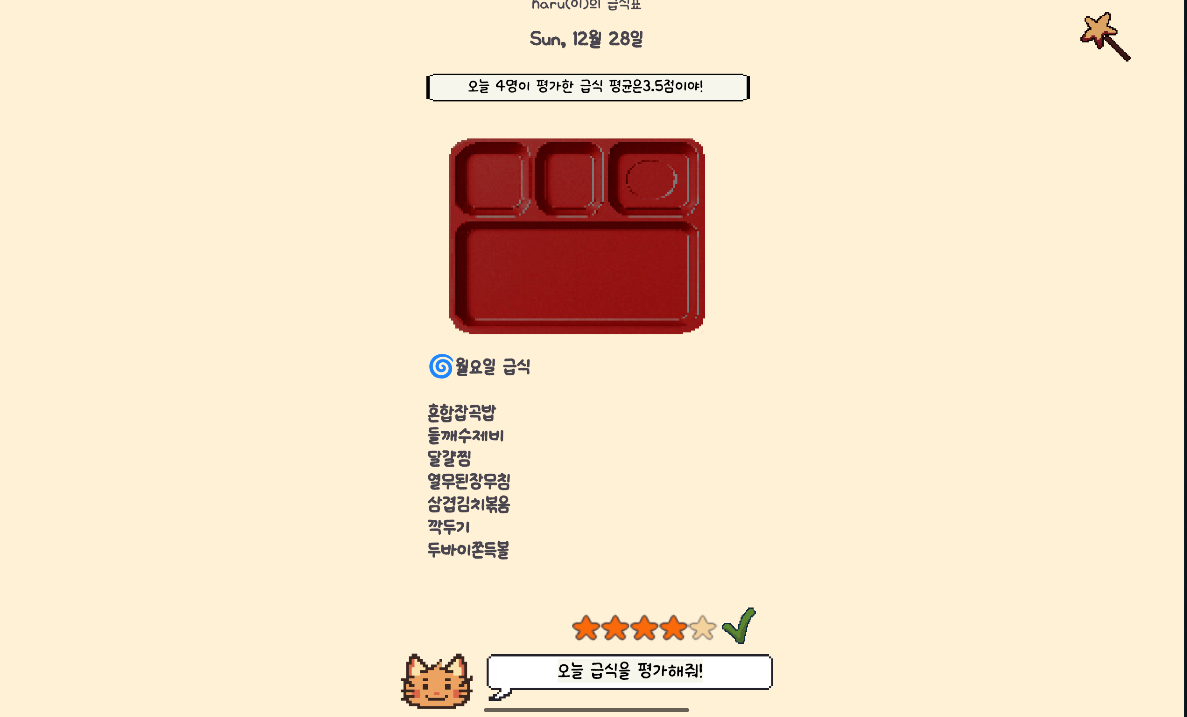
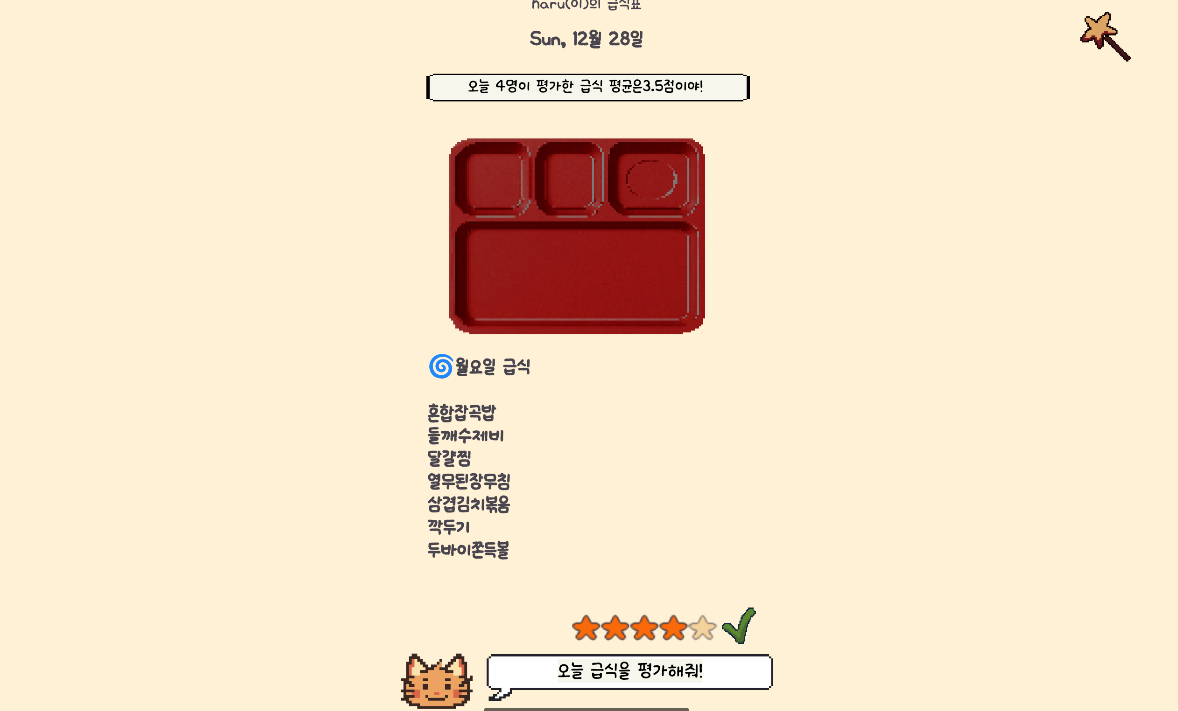
check game projects visuals

diff --git a/project.html b/project.html
@@ -38,33 +38,206 @@
         <a href="#contactTab" id="contact">Contact</a>
     </div>
 
-    <div style = "text-align:center; align-items:center;margin-top:100px;">
-    <a style = "font-family: 'Inter'; font-size:40px; 
+    <a id="worktab"></a>
+    <div style="text-align:center; align-items:center;margin-top:100px;">
+        <a style="font-family: 'Inter'; font-size:40px; 
     font-weight:600;color:#5d3725; position:relative;">Work Experience</a>
-   </div>
+    </div>
     <div id="initial">
-        
-    </div>
-    
 
-     <div class = "projectSection" style = "margin-top:-430px; background-color:#eee8a4;">
-        <img src = "images/conference.png" id = "imaging">
-            <br><br>
-        <a style = " font-size:18px; font-weight:700;text-align:center;">LightsUp Conference<br></a>
-        <a style = "text-align:center;">-Conference Coordinator</a><br>
-        <p>Coordinated outreach between Student Associations and 50+ researchers for 130+ attendees conference.<br>
-        Directed VR-Room accessibility for attendees and handled poster session logistics.</p>
-        
     </div>
-    <div class = "projectSection" style = " background-color:#a8806d;">
-        <img src = "images/conference.png" id = "imaging">
-            <br><br>
-        <a style = " font-size:18px; font-weight:700;text-align:center;">LightsUp Conference<br></a>
-        <a style = "text-align:center;">-Conference Coordinator</a><br>
-        <p>Coordinated outreach between Student Associations and 50+ researchers for 130+ attendees conference.<br>
-        Directed VR-Room accessibility for attendees and handled poster session logistics.</p>
-        
+
+
+    <div class="projectSection" style="margin-top:-430px; background-color:#eee8a4;">
+        <img src="images/conference.png" id="imaging">
+        <br><br>
+        <a style=" font-size:18px; font-weight:700;text-align:center;">LightsUp Conference<br></a>
+        <a style="text-align:center;">-Conference Coordinator</a><br>
+        <p>&nbsp;&nbsp;• Coordinated outreach between Student Associations and 50+ researchers for 130+ attendees
+            conference.<br>
+            &nbsp;&nbsp;• Directed VR-Room accessibility for attendees and handled poster session logistics.</p>
+        <br>
+        <a href="https://www.purdueexponent.org/campus/events/lightsup-conference-educates-atendees-on-sustainability/article_934a939f-e50f-4dd4-a2ab-5b1631dfeaf5.html?"
+            target="_blank" class="animated-button"
+            style="width:130px;background-color:#f9fae1;margin-left:auto; margin-right:auto;">
+            <svg xmlns="http://www.w3.org/2000/svg" class="arr-2" viewBox="0 0 24 24">
+                <path
+                    d="M16.1716 10.9999L10.8076 5.63589L12.2218 4.22168L20 11.9999L12.2218 19.778L10.8076 18.3638L16.1716 12.9999H4V10.9999H16.1716Z">
+                </path>
+            </svg>
+            <span class="text"> Check Article</span>
+            <span class="circle"></span>
+            <svg xmlns="http://www.w3.org/2000/svg" class="arr-1" viewBox="0 0 24 24">
+                <path
+                    d="M16.1716 10.9999L10.8076 5.63589L12.2218 4.22168L20 11.9999L12.2218 19.778L10.8076 18.3638L16.1716 12.9999H4V10.9999H16.1716Z">
+                </path>
+            </svg>
+        </a>
     </div>
+    <div class="projectSection" style=" background-color:#a8806d;">
+        <img src="images/sec.png" id="imaging">
+        <br><br>
+        <a style=" font-size:18px; font-weight:700;text-align:center; color:#eee8a4">Sustainable Energy Club<br></a>
+        <a style="text-align:center;color:#eee8a4">-Lead Director of Arts, Creativity, and Design</a><br>
+        <p style="color:#f9fae1"> &nbsp;&nbsp;• Deployed modular solar array systems capable of generating 3.2kW,
+            successfully powering the Purdue University
+            Farmer’s Market for two weeks<br>
+            &nbsp;&nbsp;• Designed, constructed, and stress-tested physical wind turbine structures to store renewable
+            energy.<br>
+            &nbsp;&nbsp;• Currently coordinating outreach to sustainability clubs and creating artwork with club members
+            to organize an art gallery.<br>
+            &nbsp;&nbsp;• Schedule meetings, assign each members adequate roles, and handle the organization of a
+            division within the club.</p>
+        <a href="https://www.purdueexponent.org/campus/purdue-sec-brings-clean-energy-to-campus/article_409bdcac-f4f5-4166-9373-47eaf9e3190d.html"
+            target="_blank" class="animated-button" style="margin-left:auto; margin-right:auto;width:140px;">
+            <svg xmlns="http://www.w3.org/2000/svg" class="arr-2" viewBox="0 0 24 24">
+                <path
+                    d="M16.1716 10.9999L10.8076 5.63589L12.2218 4.22168L20 11.9999L12.2218 19.778L10.8076 18.3638L16.1716 12.9999H4V10.9999H16.1716Z">
+                </path>
+            </svg>
+            <span class="text"> Check Article</span>
+            <span class="circle"></span>
+            <svg xmlns="http://www.w3.org/2000/svg" class="arr-1" viewBox="0 0 24 24">
+                <path
+                    d="M16.1716 10.9999L10.8076 5.63589L12.2218 4.22168L20 11.9999L12.2218 19.778L10.8076 18.3638L16.1716 12.9999H4V10.9999H16.1716Z">
+                </path>
+            </svg>
+        </a>
+    </div>
+
+    <a id="gameTab"></a>
+    <div style="text-align:center; align-items:center;margin-bottom:20px;">
+        <a style="font-family: 'Inter'; font-size:40px; 
+    font-weight:600;color:#5d3725; position:relative;">Game Projects</a>
+    </div>
+    <div class="projectSection" style=" background-color:#eee8a4;">
+        <img src="images/Screenshot 2025-12-28 214241.png" id="imaging">
+        <br><br>
+        <a style=" font-size:18px; font-weight:700;text-align:center;">Dining App for Anyang Girls' High
+            School<br></a>
+        <a style="text-align:center; font-family:'InterItalic';">-Java, Android SDK, Android Studio, Aseprite </a><br>
+        <p>
+            &nbsp;&nbsp;• Used government-licensed public APIs to receive real-time dining data; filtered raw JSON files
+            to deliver 7
+            entrees/day.<br>
+            &nbsp;&nbsp;• Implemented Firebase Realtime Database to store ratings and process user feedback per unique
+            meal.<br>
+            &nbsp;&nbsp;• Enrolled 13 beta test users in 3-week closed test to conform to Play Store testing
+            requirements.</p>
+        <a href="https://github.com/sorestar/DiningApplication" target="_blank" class="animated-button"
+            style="background-color:#f9fae1;margin-left:auto; margin-right:auto;width:140px;">
+            <svg xmlns="http://www.w3.org/2000/svg" class="arr-2" viewBox="0 0 24 24">
+                <path
+                    d="M16.1716 10.9999L10.8076 5.63589L12.2218 4.22168L20 11.9999L12.2218 19.778L10.8076 18.3638L16.1716 12.9999H4V10.9999H16.1716Z">
+                </path>
+            </svg>
+            <span class="text"> Github Link</span>
+            <span class="circle"></span>
+            <svg xmlns="http://www.w3.org/2000/svg" class="arr-1" viewBox="0 0 24 24">
+                <path
+                    d="M16.1716 10.9999L10.8076 5.63589L12.2218 4.22168L20 11.9999L12.2218 19.778L10.8076 18.3638L16.1716 12.9999H4V10.9999H16.1716Z">
+                </path>
+            </svg>
+        </a>
+    </div>
+
+    <div class="projectSection" style=" background-color:#a8806d;">
+        <img src="images/home.png" id="imaging">
+        <br>
+
+        </a>
+        <a style=" font-size:18px; font-weight:700;text-align:center;color:#f9fae1;">Bring Us Home!<br></a>
+        <a style="text-align:center;color:#f9fae1;">-Lead Director</a><br>
+        <a style="text-align:center; font-family:'InterItalic';color:#f9fae1">-Unity, C#, GitHub, Visual Studio, Procreate</a><br>
+        <p style ="color:#f9fae1;">&nbsp;&nbsp;• Built custom multimedia 2D interactive storytelling game in 4 days, averaging 34 players during
+            the 5-day playtest.<br>
+            &nbsp;&nbsp;• Contains event-driven quest engine capable of tracking inventory requirements and updating
+            dialogue states.<br>
+            &nbsp;&nbsp;• Placed top 5% in Narrative and top 7% in Artwork out of 10k entries in GMTK Game Jam, 2026</p>
+<br>
+
+        <a href="https://sorestar.itch.io/bring-us-home" target="_blank" class="animated-button"
+            style="margin-left:auto; margin-right:auto;width:140px;">
+            <svg xmlns="http://www.w3.org/2000/svg" class="arr-2" viewBox="0 0 24 24">
+                <path
+                    d="M16.1716 10.9999L10.8076 5.63589L12.2218 4.22168L20 11.9999L12.2218 19.778L10.8076 18.3638L16.1716 12.9999H4V10.9999H16.1716Z">
+                </path>
+            </svg>
+            <span class="text"> Try The Game !</span>
+            <span class="circle"></span>
+            <svg xmlns="http://www.w3.org/2000/svg" class="arr-1" viewBox="0 0 24 24">
+                <path
+                    d="M16.1716 10.9999L10.8076 5.63589L12.2218 4.22168L20 11.9999L12.2218 19.778L10.8076 18.3638L16.1716 12.9999H4V10.9999H16.1716Z">
+                </path>
+            </svg>
+        </a>
+    </div>
+    <div class="projectSection" style=" background-color:#eee8a4;">
+        <img src="images/mask.png" id="imaging">
+        <br><br>
+        <a style=" font-size:18px; font-weight:700;text-align:center;">Mask Making Store<br></a>
+        <a style="text-align:center;">-Solo Game Developer</a><br>
+        <a style="text-align:center; font-family:'InterItalic';">-Unity, C#, GitHub, Visual Studio, Aseprite</a><br>
+        
+        <p> 
+            &nbsp;&nbsp;• 2D-Unity based matching puzzle game built in 2 days for Global Game Jam 2026; featuring main
+            gameplay loop
+            with deterministic score-based ending cinematics and embedded mini games. <br>
+            &nbsp;&nbsp;• Presented in-booth amongst 26 other participants at the Fractal 2026 Showcase 100+ person
+            audience.<br>
+            &nbsp;&nbsp;• Implemented dynamic dialogue behaviors based on user performance, character variations, and
+            scoring system.</p>
+
+        <a href="https://sorestar.itch.io/mask-making-store?" target="_blank" class="animated-button"
+            style="margin-left:auto; margin-right:auto;width:140px;background-color:#f9fae1">
+            <svg xmlns="http://www.w3.org/2000/svg" class="arr-2" viewBox="0 0 24 24">
+                <path
+                    d="M16.1716 10.9999L10.8076 5.63589L12.2218 4.22168L20 11.9999L12.2218 19.778L10.8076 18.3638L16.1716 12.9999H4V10.9999H16.1716Z">
+                </path>
+            </svg>
+            <span class="text"> Try The Game !</span>
+            <span class="circle"></span>
+            <svg xmlns="http://www.w3.org/2000/svg" class="arr-1" viewBox="0 0 24 24">
+                <path
+                    d="M16.1716 10.9999L10.8076 5.63589L12.2218 4.22168L20 11.9999L12.2218 19.778L10.8076 18.3638L16.1716 12.9999H4V10.9999H16.1716Z">
+                </path>
+            </svg>
+        </a>
+    </div>
+    <div class="projectSection" style=" background-color:#a8806d;">
+        <img src="images/Screenshot 2025-04-01 200228.png" id="imaging">
+        <br><br>
+        <a style=" font-size:18px;color:#f9fae1; font-weight:700;text-align:center;">Multiplayer Game Demo<br></a>
+        <a style="text-align:center;color:#f9fae1;">-Solo Game Developer</a><br>
+        <a style="text-align:center;color:#f9fae1; font-family:'InterItalic';">-Unity, C#, GitHub, Visual Studio, Aseprite, Procreate</a><br>
+        
+        <p style ="color:#f9fae1;">&nbsp;&nbsp;• Currently working on the first demo for a future multiplayer pixel art game, about a kid and her dog trying to save a star from the king. <br>
+            &nbsp;&nbsp;• Programmed a host-client sever so the game can be played by up to three players.</p>
+
+
+        <a href="https://youtu.be/ROdEezLr8uY" target="_blank" class="animated-button"
+            style="background-color:#f9fae1;margin-left:auto; margin-right:auto;width:140px;">
+            <svg xmlns="http://www.w3.org/2000/svg" class="arr-2" viewBox="0 0 24 24">
+                <path
+                    d="M16.1716 10.9999L10.8076 5.63589L12.2218 4.22168L20 11.9999L12.2218 19.778L10.8076 18.3638L16.1716 12.9999H4V10.9999H16.1716Z">
+                </path>
+            </svg>
+            <span class="text"> Short Trailer</span>
+            <span class="circle"></span>
+            <svg xmlns="http://www.w3.org/2000/svg" class="arr-1" viewBox="0 0 24 24">
+                <path
+                    d="M16.1716 10.9999L10.8076 5.63589L12.2218 4.22168L20 11.9999L12.2218 19.778L10.8076 18.3638L16.1716 12.9999H4V10.9999H16.1716Z">
+                </path>
+            </svg>
+        </a>
+    </div>
+
+    <a id="assetTab"></a>
+    <div style="text-align:center; align-items:center;margin-bottom:20px;">
+        <a style="font-family: 'Inter'; font-size:40px; 
+    font-weight:600;color:#5d3725; position:relative;">3D Assets</a>
+    </div>
+
     <div id="contactTab">
         <h2>
             <div id="line">

diff --git a/index.html b/index.html
@@ -59,7 +59,7 @@
 
         </p>
         <br>
-<a href = "project.html" class = "animated-button" style = "margin-left:auto; margin-right:auto;">
+<a href = "project.html" class = "animated-button white" style = "margin-left:auto; margin-right:auto;">
   <svg xmlns="http://www.w3.org/2000/svg" class="arr-2" viewBox="0 0 24 24">
     <path
       d="M16.1716 10.9999L10.8076 5.63589L12.2218 4.22168L20 11.9999L12.2218 19.778L10.8076 18.3638L16.1716 12.9999H4V10.9999H16.1716Z"
@@ -76,10 +76,10 @@
     </div>
 
     <div class = "projectSection" style = "margin-top:-280px; background-color:#eee8a4;">
-        <img src = "images/conference.png" id = "imaging">
+        <img src = "images/sec.png" id = "imaging">
             <br><br>
-        <a style = " font-size:18px; font-weight:700;text-align:center;">LightsUp Conference<br></a>
-        <a style = "text-align:center;">-Conference Coordinator</a><br>
+        <a style = " font-size:18px; font-weight:700;text-align:center;">Sustainable Energy Club<br></a>
+        <a style = "text-align:center;">-Lead director of Arts, Creativity, and Design Division</a><br>
         <p>Coordinated outreach between Student Associations and 50+ researchers for 130+ attendees conference.<br>
         Directed VR-Room accessibility for attendees and handled poster session logistics.</p>
         
@@ -89,8 +89,11 @@
             <br><br>
         <a style = " font-size:18px; font-weight:700;text-align:center;">LightsUp Conference<br></a>
         <a style = "text-align:center;">-Conference Coordinator</a><br>
-        <p>Coordinated outreach between Student Associations and 50+ researchers for 130+ attendees conference.<br>
-        Directed VR-Room accessibility for attendees and handled poster session logistics.</p>
+        <p>Deployed modular solar array systems capable of generating 3.2kW, successfully powering the Purdue University
+Farmer’s Market for two weeks<br>
+        Designed, constructed, and stress-tested physical wind turbine structures to store renewable energy.<br>
+        Currently coordinating outreach to sustainability clubs and creating artwork with club members to organize an art gallery.<br>
+        Schedule meetings, assign each members adequate roles, and handle the organization of a division within the club.</p>
         
     </div>
     <div id="contactTab">

diff --git a/style.css b/style.css
@@ -160,7 +160,7 @@ body {
 
 #copyright {
     font-family: 'OK';
-    font-size: 12px;
+    font-size: 10px;
     padding-top:10px;
     color: #436b8e;
     overflow: hidden;
